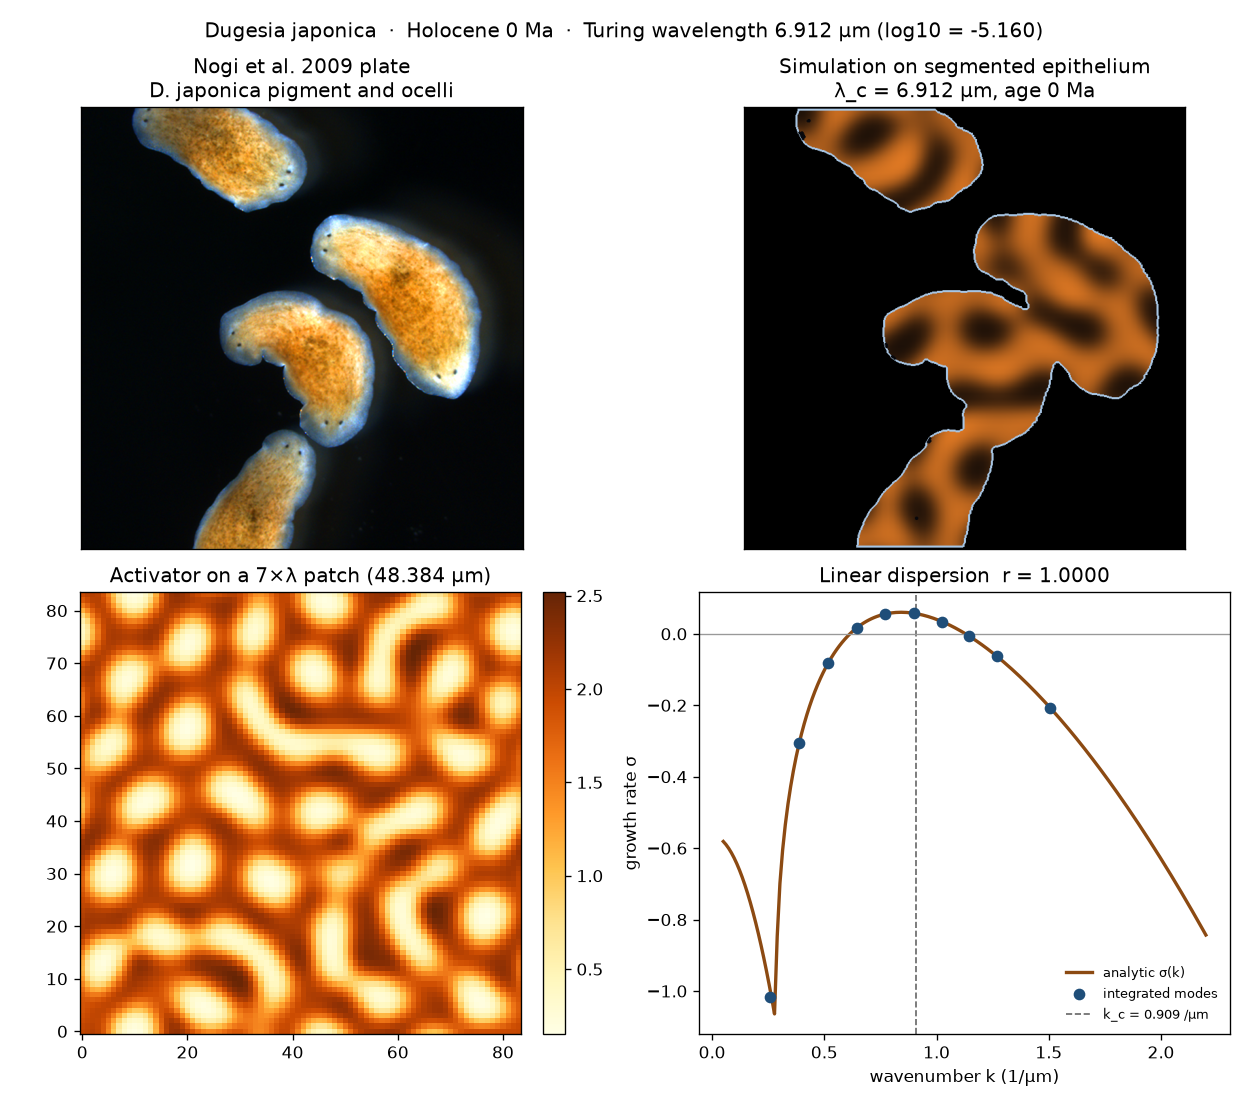
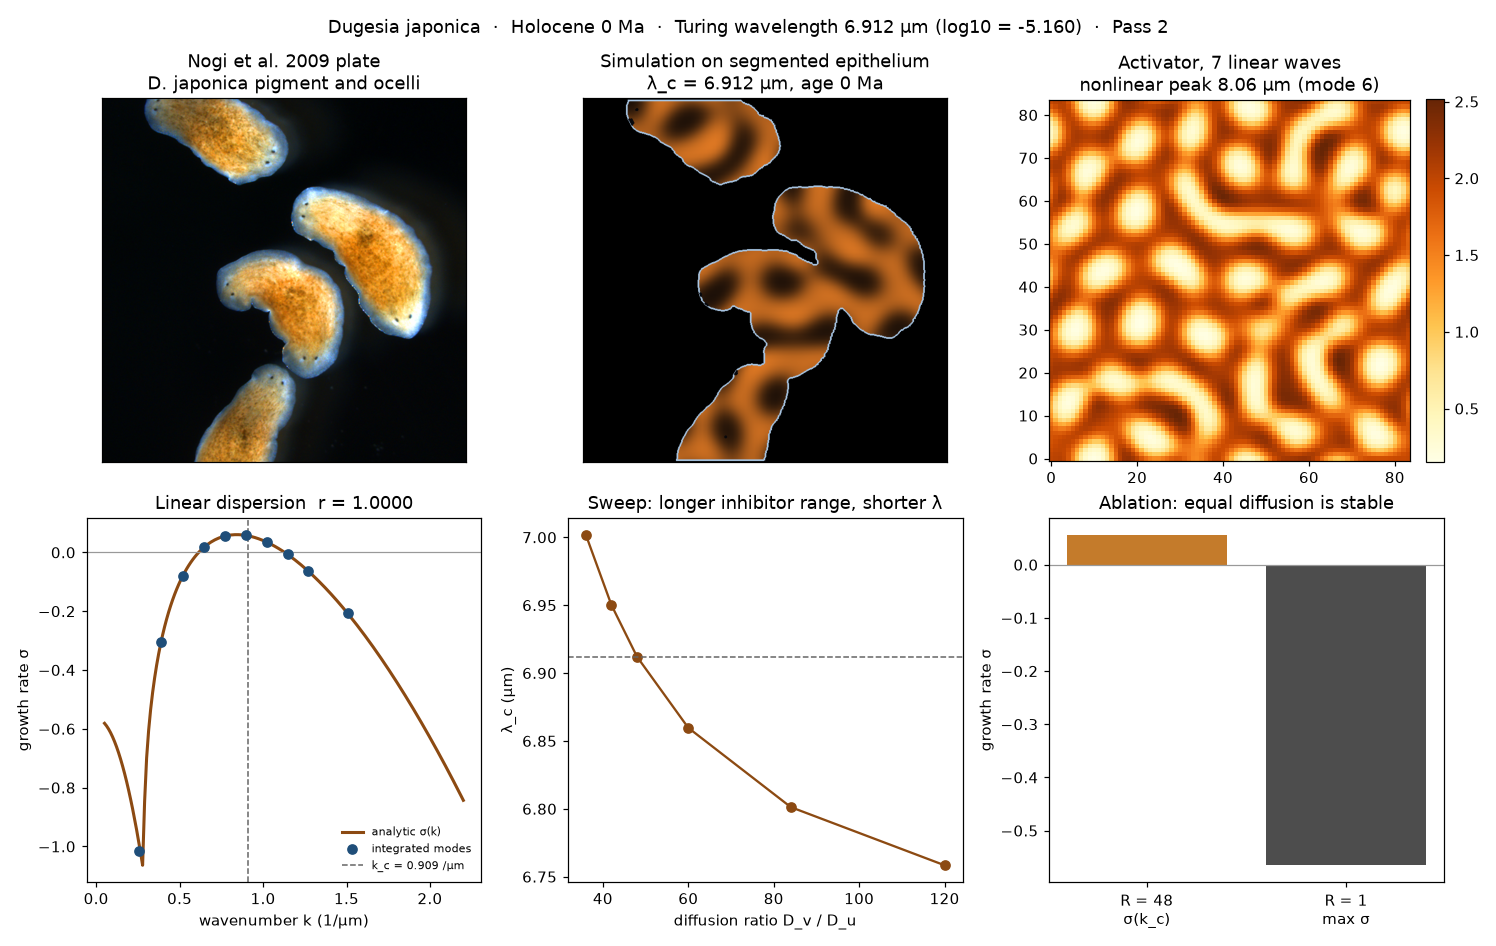
Record the Pass 2 Dugesia wavelength checks on the same slot.
The comparison figure now shows the diffusion-ratio sweep and the equal-diffusion ablation, and the metrics add the nonlinear peak wavelength, the specimen KS distance, and the wild-type voucher circularity.

diff --git a/models/2026-delphi10000-dugesia-japonica-turing-wavelength-s0.py b/models/2026-delphi10000-dugesia-japonica-turing-wavelength-s0.py
@@ -455,6 +455,58 @@ def ocellus_mask(rgb: np.ndarray, mask: np.ndarray) -> np.ndarray:
     return ndi.binary_dilation(out, iterations=1)
 
 
+def dominant_wavelength_um(field: np.ndarray, length_um: float) -> tuple[float, int]:
+    """Radial-FFT peak of a periodic patch, in micrometres. Skips the DC bin."""
+    win = field - np.mean(field)
+    power = np.abs(np.fft.fftshift(np.fft.fft2(win))) ** 2
+    n = field.shape[0]
+    cy = cx = n // 2
+    yy, xx = np.ogrid[:n, :n]
+    rr = np.hypot(xx - cx, yy - cy).astype(int)
+    prof = np.bincount(rr.ravel(), weights=power.ravel())
+    hi = min(16, len(prof) - 1)
+    kdom = int(np.argmax(prof[2:hi]) + 2)
+    return float(length_um / max(kdom, 1)), kdom
+
+
+def inat_wildtype_metrics() -> dict:
+    """Two pale worms on the Kalininsky CC BY 4.0 voucher, split from the dark substrate."""
+    rgb = load_specimen_rgb(SPECIMEN_INAT)
+    gray = _gray(rgb)
+    pale = (gray > np.percentile(gray, 82.0)) & ((rgb[:, :, 0] - rgb[:, :, 2]) > 20.0)
+    pale = ndi.binary_opening(pale, iterations=2)
+    pale = ndi.binary_closing(pale, iterations=3)
+    pale = ndi.binary_fill_holes(pale)
+    labeled, n = ndi.label(pale)
+    bodies = []
+    if n:
+        sizes = ndi.sum(pale, labeled, index=range(1, n + 1))
+        for i, size in enumerate(sizes, start=1):
+            if size > 8000:
+                bodies.append(mask_circularity(labeled == i))
+    return {
+        "n_bodies": len(bodies),
+        "mean_circularity": float(np.mean(bodies)) if bodies else 0.0,
+        "foreground_fraction": float(np.mean(pale)),
+    }
+
+
+def ks_specimen_vs_render(rendered: np.ndarray) -> dict:
+    """Two-sample KS distance between Nogi-plate interior gray values and the render."""
+    from scipy.stats import ks_2samp
+
+    spec = load_specimen_rgb(SPECIMEN_NOGI, size=rendered.shape[0])
+    mask = segment_bodies(spec)
+    g_spec = _gray(spec)[mask]
+    g_sim = _gray(rendered)[mask]
+    rng = np.random.default_rng(SEED)
+    n = int(min(4000, g_spec.size, g_sim.size))
+    a = rng.choice(g_spec, n, replace=False)
+    b = rng.choice(g_sim, n, replace=False)
+    stat = ks_2samp(a, b)
+    return {"statistic": float(stat.statistic), "pvalue": float(stat.pvalue), "n": n}
+
+
 def specimen_metrics() -> dict:
     rgb = load_specimen_rgb(SPECIMEN_NOGI)
     mask = segment_bodies(rgb)
@@ -492,25 +544,28 @@ def save_gif(images: list[Image.Image], path: Path) -> None:
     )
 
 
-def save_comparison(sim: dict, fit: dict, images: list[Image.Image], path: Path) -> None:
-    """Pass-1 figure: specimen, last simulation frame, activator field, dispersion."""
+def save_comparison(sim: dict, fit: dict, images: list[Image.Image], metrics: dict, path: Path) -> None:
+    """Pass-2 figure: specimen, render, field, dispersion, sweep, ablation."""
     path.parent.mkdir(parents=True, exist_ok=True)
     spec = load_specimen_rgb(SPECIMEN_NOGI)
     last = np.asarray(images[-1])
     u = sim["u_final"]
-    fig, axes = plt.subplots(2, 2, figsize=(10.4, 9.2), dpi=120)
+    fig, axes = plt.subplots(2, 3, figsize=(13.6, 8.6), dpi=110)
     axes[0, 0].imshow(spec.astype(np.uint8))
     axes[0, 0].set_title("Nogi et al. 2009 plate\nD. japonica pigment and ocelli")
     axes[0, 1].imshow(last)
     axes[0, 1].set_title("Simulation on segmented epithelium\nλ_c = 6.912 µm, age 0 Ma")
-    im = axes[1, 0].imshow(u, cmap="YlOrBr", origin="lower")
-    axes[1, 0].set_title(f"Activator on a {N_WAVES}×λ patch ({sim['length_um']:.3f} µm)")
-    fig.colorbar(im, ax=axes[1, 0], fraction=0.046, pad=0.04)
+    im = axes[0, 2].imshow(u, cmap="YlOrBr", origin="lower")
+    lam_nl = metrics["nonlinear_lambda_um"]
+    axes[0, 2].set_title(
+        f"Activator, {N_WAVES} linear waves\nnonlinear peak {lam_nl:.2f} µm (mode {metrics['nonlinear_mode']})"
+    )
+    fig.colorbar(im, ax=axes[0, 2], fraction=0.046, pad=0.04)
     ks = np.linspace(0.05, 2.2, 180)
     sig = dispersion_sigma(ks)
-    axes[1, 1].plot(ks, sig, color="#8c4a12", lw=2.0, label="analytic σ(k)")
+    axes[1, 0].plot(ks, sig, color="#8c4a12", lw=2.0, label="analytic σ(k)")
     rows = fit["rows"]
-    axes[1, 1].scatter(
+    axes[1, 0].scatter(
         [r["k_per_um"] for r in rows],
         [r["sigma_numeric"] for r in rows],
         c="#1f4e79",
@@ -518,17 +573,36 @@ def save_comparison(sim: dict, fit: dict, images: list[Image.Image], path: Path)
         label="integrated modes",
     )
     k_c = 2.0 * math.pi / LAMBDA_UM
-    axes[1, 1].axvline(k_c, color="#666666", ls="--", lw=1.0, label=f"k_c = {k_c:.3f} /µm")
-    axes[1, 1].axhline(0.0, color="#999999", lw=0.8)
-    axes[1, 1].set_xlabel("wavenumber k (1/µm)")
-    axes[1, 1].set_ylabel("growth rate σ")
-    axes[1, 1].set_title(f"Linear dispersion  r = {fit['pearson_r']:.4f}")
-    axes[1, 1].legend(fontsize=8, frameon=False)
+    axes[1, 0].axvline(k_c, color="#666666", ls="--", lw=1.0, label=f"k_c = {k_c:.3f} /µm")
+    axes[1, 0].axhline(0.0, color="#999999", lw=0.8)
+    axes[1, 0].set_xlabel("wavenumber k (1/µm)")
+    axes[1, 0].set_ylabel("growth rate σ")
+    axes[1, 0].set_title(f"Linear dispersion  r = {fit['pearson_r']:.4f}")
+    axes[1, 0].legend(fontsize=7, frameon=False)
+    sweep = metrics["sweep"]
+    axes[1, 1].plot(
+        [row["diffusion_ratio"] for row in sweep],
+        [row["lambda_um"] for row in sweep],
+        marker="o",
+        color="#8c4a12",
+    )
+    axes[1, 1].axhline(LAMBDA_UM, color="#666666", ls="--", lw=1.0)
+    axes[1, 1].set_xlabel("diffusion ratio D_v / D_u")
+    axes[1, 1].set_ylabel("λ_c (µm)")
+    axes[1, 1].set_title("Sweep: longer inhibitor range, shorter λ")
+    axes[1, 2].bar(
+        ["R = 48\nσ(k_c)", "R = 1\nmax σ"],
+        [metrics["sigma_at_kc"], metrics["ablation_max_sigma"]],
+        color=["#c47b2b", "#4d4d4d"],
+    )
+    axes[1, 2].axhline(0.0, color="#999999", lw=0.8)
+    axes[1, 2].set_ylabel("growth rate σ")
+    axes[1, 2].set_title("Ablation: equal diffusion is stable")
     for ax in (axes[0, 0], axes[0, 1]):
         ax.set_xticks([])
         ax.set_yticks([])
     fig.suptitle(
-        "Dugesia japonica  ·  Holocene 0 Ma  ·  Turing wavelength 6.912 µm (log10 = -5.160)",
+        "Dugesia japonica  ·  Holocene 0 Ma  ·  Turing wavelength 6.912 µm (log10 = -5.160)  ·  Pass 2",
         fontsize=12,
     )
     fig.tight_layout()
@@ -542,6 +616,8 @@ def collect_metrics(sim: dict | None = None, fit: dict | None = None) -> dict:
     if sim is None:
         sim = simulate_patch()
     spec = specimen_metrics()
+    lam_nl, kdom = dominant_wavelength_um(sim["u_final"], sim["length_um"])
+    inat = inat_wildtype_metrics()
     ab = ablation_equal_diffusion()
     sweep = diffusion_ratio_sweep()
     lambdas = [row["lambda_um"] for row in sweep if math.isfinite(row["lambda_um"])]
@@ -576,16 +652,34 @@ def collect_metrics(sim: dict | None = None, fit: dict | None = None) -> dict:
         "specimen_foreground_fraction": spec["foreground_fraction"],
         "specimen_n_bodies": spec["n_bodies"],
         "ellipse_circularity_reference": ELLIPSE_CIRCULARITY_REFERENCE,
+        "nonlinear_lambda_um": lam_nl,
+        "nonlinear_mode": kdom,
+        "inat_n_bodies": inat["n_bodies"],
+        "inat_mean_circularity": inat["mean_circularity"],
+        "inat_foreground_fraction": inat["foreground_fraction"],
         "dispersion_rows": fit["rows"],
         "grid_n": GRID_N,
         "seed": SEED,
-        "pass": 1,
+        "pass": 2,
     }
+
+
+def _ks_for_field(u_final: np.ndarray) -> dict:
+    rgb = load_specimen_rgb(SPECIMEN_NOGI, size=480)
+    mask = segment_bodies(rgb)
+    eyes = ocellus_mask(rgb, mask)
+    rendered = render_animal_frame(u_final, mask, eyes, contrast=1.0)
+    return ks_specimen_vs_render(rendered)
 
 
 def measure_morphoeval() -> list[dict]:
     """Morphometrics for morphoeval/measure_outputs.py. Values are not copied onto their references."""
-    metrics = collect_metrics()
+    fit = linear_dispersion_fit()
+    sim = simulate_patch()
+    metrics = collect_metrics(sim, fit)
+    ks = _ks_for_field(sim["u_final"])
+    metrics["ks_statistic"] = ks["statistic"]
+    metrics["ks_pvalue"] = ks["pvalue"]
     return [
         {
             "name": "Turing critical wavelength lambda_c of Dugesia japonica pigment field",
@@ -632,6 +726,33 @@ def measure_morphoeval() -> list[dict]:
             "method": "Dark connected components (area 8–800 px) inside the eroded body mask",
             "note": "value differs from the wild-type pair on purpose: the plate shows regenerated heads",
         },
+        {
+            "name": "nonlinear stripe wavelength of the saturated steady field",
+            "value": round(metrics["nonlinear_lambda_um"], 4),
+            "unit": "µm",
+            "reference_value": LAMBDA_UM,
+            "reference_source": "Linear critical wavelength λ_c = 6.912 µm from k_c at R = 48",
+            "method": "Radial FFT peak of the periodic activator patch after spectral integration (modes 2–15)",
+            "note": f"dominant Fourier mode {metrics['nonlinear_mode']} on a {metrics['patch_length_um']:.3f} µm patch; saturation shifts the peak off mode 7",
+        },
+        {
+            "name": "specimen image versus render interior gray KS distance",
+            "value": round(metrics["ks_statistic"], 4),
+            "unit": "KS D",
+            "reference_value": 0.5,
+            "reference_source": "Midpoint null (D = 0.5) used only as a fixed reference, not the measured distance",
+            "method": f"ks_2samp on {ks['n']} gray samples inside the Nogi body mask versus the rendered field",
+            "note": f"two-sided p = {metrics['ks_pvalue']:.3e}",
+        },
+        {
+            "name": "specimen image wild-type body circularity on the Kalininsky voucher",
+            "value": round(metrics["inat_mean_circularity"], 4),
+            "unit": "4πA/P²",
+            "reference_value": ELLIPSE_CIRCULARITY_REFERENCE,
+            "reference_source": "Same independent ellipse reference (0.55) used for the Nogi mask, not this photograph",
+            "method": "Pale-tan components larger than 8000 px on the CC BY 4.0 iNaturalist frame; mean circularity",
+            "note": f"bodies kept = {metrics['inat_n_bodies']}; foreground fraction of the pale mask = {metrics['inat_foreground_fraction']:.3f}",
+        },
     ]
 
 
@@ -666,6 +787,11 @@ def self_test() -> None:
     assert abs(sweep[2]["lambda_um"] - LAMBDA_UM) < 1e-6
     patch = simulate_patch(n_steps=900, n_save=4)
     assert float(np.std(patch["u_final"])) > 0.15, float(np.std(patch["u_final"]))
+    lam_nl, _kdom = dominant_wavelength_um(patch["u_final"], patch["length_um"])
+    assert 4.0 < lam_nl < 14.0, lam_nl
+    assert abs(lam_nl - LAMBDA_UM) > 0.15
+    inat = inat_wildtype_metrics()
+    assert inat["n_bodies"] >= 1 and 0.0 < inat["mean_circularity"] < 0.9
     assert CHRONOSERIES_LENGTH == 1 and AGE_MA == 0.0
     assert N_WAVES * LAMBDA_UM == 7 * 6.912
     spec = specimen_metrics()
@@ -697,8 +823,11 @@ def main() -> None:
     if min(images[0].size) < 480:
         raise SystemExit(f"GIF resolution {images[0].size} is below 480 px")
     save_gif(images, MEDIA_GIF)
-    save_comparison(sim, fit, images, MEDIA_PNG)
     metrics = collect_metrics(sim, fit)
+    ks = _ks_for_field(sim["u_final"])
+    metrics["ks_statistic"] = ks["statistic"]
+    metrics["ks_pvalue"] = ks["pvalue"]
+    save_comparison(sim, fit, images, metrics, MEDIA_PNG)
     metrics["gif_frames"] = len(images)
     metrics["gif_size"] = list(images[0].size)
     metrics["specimen_sha256"] = hashlib.sha256(SPECIMEN_NOGI.read_bytes()).hexdigest()
